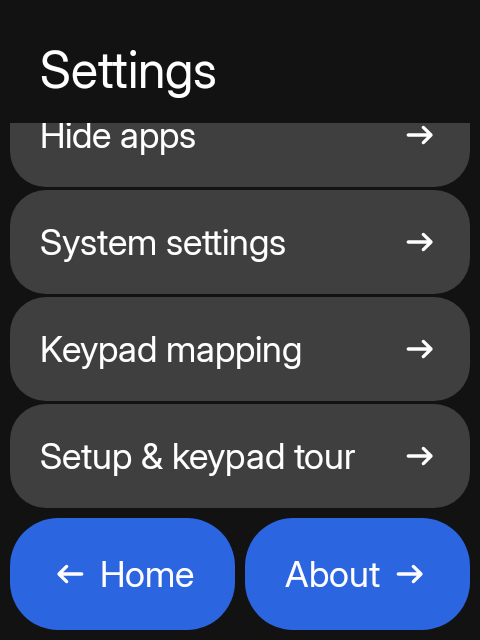
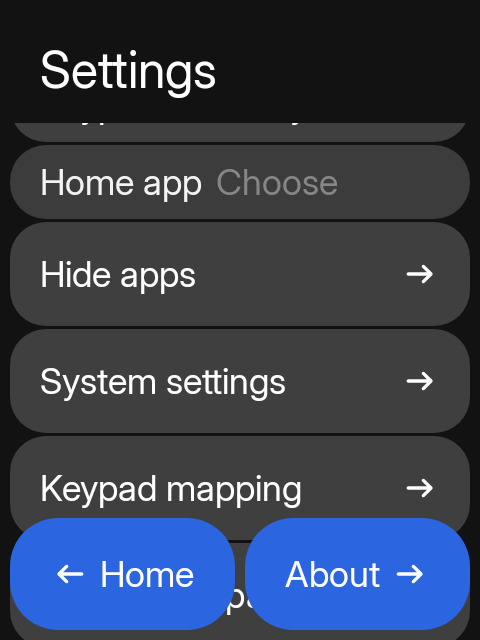
Add a compact layout for the header and action bar
The header reserved 123 px of the 640 px display before any content: 10 dp
canvas padding, 30 dp title inset, 12 dp of Inter's ascent above the cap and a
103 dp header slot. The action bar added another 132.

Settings -> Compact layout installs SidekitSpacing.Compact, which trims the
chrome without touching the type scale: the header title sits 14 dp above its
line box (header 75 instead of 103, so the body starts 28 dp higher) and the
action bar is 100 instead of 112.

The spacing is built in MainActivity from a preference observer, so toggling
the row re-lays out every screen immediately; headerPaddingTop becomes its own
token (default 30) so the standard layout is byte-for-byte unchanged.

(cherry picked from commit 4731755f307c18ad49a7fb4f7f1d2ecc2e892e94)

Changed region(s): [[0.0, 0.1875, 1.0, 1.0]]

diff --git a/app/src/main/java/hrln/interactive/sidekit/apps/settings/SettingsScreen.kt b/app/src/main/java/hrln/interactive/sidekit/apps/settings/SettingsScreen.kt
@@ -71,6 +71,7 @@ internal fun SettingsHome(onHome: () -> Unit, onAbout: () -> Unit, onCaseColour:
     val home = remember(revision) { context.getSystemService(RoleManager::class.java).isRoleHeld(RoleManager.ROLE_HOME) }
     fun open(action: String) { try { context.startActivity(Intent(action)) } catch (_: Exception) { message = "This settings screen is unavailable on this device." } }
     val listLayout = remember(revision) { prefs.listLayout }
+    val compactLayout = remember(revision) { prefs.compactLayout }
     val inputMode = remember(revision) { prefs.inputMode }
     val list = rememberLazyListState()
     SidekitScaffold("Settings", actions = listOf(SideAction.back("home", "Home", onHome), SideAction.forward("about", "About", onAbout))) { padding ->
@@ -78,13 +79,15 @@ internal fun SettingsHome(onHome: () -> Unit, onAbout: () -> Unit, onCaseColour:
             item { SidekitItem("Launcher default", Modifier.height(CompactRowHeight).listFade(list, 0), secondary = if (listLayout) "List" else "Grid", onClick = { prefs.listLayout = !prefs.listLayout; revision++ }) }
             item { SidekitItem("Arrange apps", Modifier.height(CompactRowHeight).listFade(list, 1), secondary = "Home order & dock", onClick = onArrange) }
             item { SidekitItem("Case colour", Modifier.height(CompactRowHeight).listFade(list, 2), secondary = caseColour?.label ?: "Original blue", onClick = onCaseColour) }
+            // Shorter header and action bar on every screen: more room for the body.
+            item { SidekitItem("Compact layout", Modifier.height(CompactRowHeight).listFade(list, 3), secondary = if (compactLayout) "On" else "Off", onClick = { prefs.compactLayout = !prefs.compactLayout; revision++ }) }
             // Detected from the keys pressed; tapping overrides it until another module's key is seen.
             // A custom mapping fixes the module, so then the row opens the mapping instead.
             val custom = keypad?.mapper?.customModule
-            item { SidekitItem("Keypad", Modifier.height(CompactRowHeight).listFade(list, 3), secondary = custom?.let { "${it.label} · custom" } ?: keypad?.module?.label ?: "None", onClick = { if (custom != null) onKeypadMapping() else keypad?.let { it.useModule(KeypadModule.entries[(it.module.ordinal + 1) % KeypadModule.entries.size]) }; revision++ }) }
-            item { SidekitItem("Input mode", Modifier.height(CompactRowHeight).listFade(list, 4), secondary = if (inputMode == T9Mode.Numeric) "Numbers" else "Letters", onClick = { prefs.inputMode = T9Mode.entries[(prefs.inputMode.ordinal + 1) % T9Mode.entries.size]; keypad?.let { prefs.applyInputDefault(it) }; revision++ }) }
-            item { SidekitItem("Keypad Back key", Modifier.height(CompactRowHeight).listFade(list, 5), secondary = if (accessibility) "Enabled" else "Enable", onClick = { open(Settings.ACTION_ACCESSIBILITY_SETTINGS) }) }
-            item { SidekitItem("Home app", Modifier.height(CompactRowHeight).listFade(list, 6), secondary = if (home) "Sidekit" else "Choose", onClick = { open(Settings.ACTION_HOME_SETTINGS) }) }
+            item { SidekitItem("Keypad", Modifier.height(CompactRowHeight).listFade(list, 4), secondary = custom?.let { "${it.label} · custom" } ?: keypad?.module?.label ?: "None", onClick = { if (custom != null) onKeypadMapping() else keypad?.let { it.useModule(KeypadModule.entries[(it.module.ordinal + 1) % KeypadModule.entries.size]) }; revision++ }) }
+            item { SidekitItem("Input mode", Modifier.height(CompactRowHeight).listFade(list, 5), secondary = if (inputMode == T9Mode.Numeric) "Numbers" else "Letters", onClick = { prefs.inputMode = T9Mode.entries[(prefs.inputMode.ordinal + 1) % T9Mode.entries.size]; keypad?.let { prefs.applyInputDefault(it) }; revision++ }) }
+            item { SidekitItem("Keypad Back key", Modifier.height(CompactRowHeight).listFade(list, 6), secondary = if (accessibility) "Enabled" else "Enable", onClick = { open(Settings.ACTION_ACCESSIBILITY_SETTINGS) }) }
+            item { SidekitItem("Home app", Modifier.height(CompactRowHeight).listFade(list, 7), secondary = if (home) "Sidekit" else "Choose", onClick = { open(Settings.ACTION_HOME_SETTINGS) }) }
             item { SidekitItem("Hide apps", showLinkArrow = true, onClick = onHiddenApps) }
             // Device settings live on their own page, so this screen stays Sidekit's own settings.
             item { SidekitItem("System settings", showLinkArrow = true, onClick = onSystem) }

diff --git a/app/src/test/java/hrln/interactive/sidekit/apps/settings/SettingsUiTest.kt b/app/src/test/java/hrln/interactive/sidekit/apps/settings/SettingsUiTest.kt
@@ -72,6 +72,34 @@ class SettingsUiTest {
         compose.onNodeWithText("List").assertIsDisplayed()
     }
 
+    @Test fun `compact layout row saves the choice and raises the body`() {
+        val prefs = SidekitPreferences(ApplicationProvider.getApplicationContext<Context>())
+        prefs.compactLayout = false
+        val compact = androidx.compose.runtime.mutableStateOf(false)
+        compose.setContent {
+            // SidekitTheme directly, not SidekitPreviewFrame: the frame installs its own (standard)
+            // spacing and would override the one under test.
+            hrln.interactive.sidekit.design.theme.SidekitTheme(
+                spacing = if (compact.value) hrln.interactive.sidekit.design.theme.SidekitSpacing.Compact
+                else hrln.interactive.sidekit.design.theme.SidekitSpacing(),
+            ) {
+                hrln.interactive.sidekit.design.canvas.SidekitCanvas { SettingsHome({}, {}) }
+            }
+        }
+        compose.mainClock.advanceTimeBy(1000)
+        val bodyTop = compose.onNodeWithText("Launcher default").getUnclippedBoundsInRoot().top
+        compose.onNodeWithText("Compact layout").performClick()
+        compose.runOnIdle { assertTrue(SidekitPreferences(ApplicationProvider.getApplicationContext()).compactLayout) }
+        compose.onNodeWithText("On").assertIsDisplayed()
+        // The preference listener is what MainActivity follows: flip the state as it would.
+        compose.runOnIdle { compact.value = true }
+        compose.mainClock.advanceTimeBy(1000)
+        compose.onRoot().captureRoboImage("screenshots/settings_compact.png")
+        val compactTop = compose.onNodeWithText("Launcher default").getUnclippedBoundsInRoot().top
+        // Header 103 -> 75, so the body starts 28 dp higher (1 dp == 1 px on this canvas).
+        assertEquals(28f, (bodyTop - compactTop).value, 1f)
+    }
+
     @Test fun `system settings live on their own page`() {
         var opened = 0
         compose.setContent { SidekitPreviewFrame { SettingsHome({}, {}, onSystem = { opened++ }) } }

diff --git a/app/src/test/java/hrln/interactive/sidekit/ui/ScreenshotTest.kt b/app/src/test/java/hrln/interactive/sidekit/ui/ScreenshotTest.kt
@@ -14,6 +14,7 @@ import hrln.interactive.sidekit.apps.sidenotes.SidenotesSampleData
 import hrln.interactive.sidekit.apps.sidenotes.SidenotesUiState
 import hrln.interactive.sidekit.apps.sideticks.SideticksScreen
 import hrln.interactive.sidekit.apps.sideticks.SideticksUiState
+import hrln.interactive.sidekit.design.canvas.SidekitCanvas
 import hrln.interactive.sidekit.launcher.LauncherLayout
 import hrln.interactive.sidekit.launcher.LauncherScreen
 import hrln.interactive.sidekit.launcher.LauncherUiState
@@ -49,6 +50,15 @@ class ScreenshotTest {
     @Test fun launcherGridAtSidephoneAvdDensity() = shoot("launcher_grid_avd_320dpi", launcher(LauncherUiState()))
 
     @Test fun launcherList() = shoot("launcher_list_36-2", launcher(LauncherUiState(layout = LauncherLayout.List)))
+    /** The same frame with Settings → Compact layout on: header 75 instead of 103, bar 100 instead of 112. */
+    @Test fun launcherGridCompact() {
+        compose.setContent {
+            hrln.interactive.sidekit.design.theme.SidekitTheme(
+                spacing = hrln.interactive.sidekit.design.theme.SidekitSpacing.Compact,
+            ) { SidekitCanvas { LauncherScreen(LauncherUiState(), {}, {}) } }
+        }
+        compose.onRoot().captureRoboImage("screenshots/launcher_grid_compact.png")
+    }
     @Test fun sidenotes() = shoot("sidenotes_1-278") { SidenotesListScreen(SidenotesUiState(SidenotesSampleData.notes), {}, {}, {}, {}) }
     @Test fun sidenotesUndo() = shoot("sidenotes_undo") {
         SidenotesListScreen(SidenotesUiState(SidenotesSampleData.notes.drop(1), recentlyDeleted = SidenotesSampleData.notes.first()), {}, {}, {}, {})

diff --git a/app/src/main/java/hrln/interactive/sidekit/MainActivity.kt b/app/src/main/java/hrln/interactive/sidekit/MainActivity.kt
@@ -14,7 +14,9 @@ import androidx.compose.runtime.*
 import hrln.interactive.sidekit.onboarding.OnboardingScreen
 import hrln.interactive.sidekit.apps.settings.SidekitPreferences
 import hrln.interactive.sidekit.apps.settings.rememberCaseColour
+import hrln.interactive.sidekit.apps.settings.rememberCompactLayout
 import hrln.interactive.sidekit.design.theme.SidekitColors
+import hrln.interactive.sidekit.design.theme.SidekitSpacing
 import androidx.compose.runtime.mutableIntStateOf
 import androidx.core.view.WindowCompat
 import androidx.core.view.WindowInsetsCompat
@@ -49,7 +51,10 @@ class MainActivity : ComponentActivity() {
             val prefs = remember { SidekitPreferences(this) }
             var setupComplete by remember { mutableStateOf(prefs.setupComplete) }
             val caseColour = rememberCaseColour(prefs)
-            SidekitTheme(colors = caseColour?.palette() ?: SidekitColors()) {
+            // Compact layout (Settings) trims the header and the action bar on every screen.
+            val compact = rememberCompactLayout(prefs)
+            val spacing = remember(compact) { if (compact) SidekitSpacing.Compact else SidekitSpacing() }
+            SidekitTheme(colors = caseColour?.palette() ?: SidekitColors(), spacing = spacing) {
                 SidekitCanvas(chrome = chrome, keypad = keypad) {
                     if (setupComplete) SidekitNavHost(homeRequests = homeRequests.intValue)
                     else OnboardingScreen(onFinish = { setupComplete = true })

diff --git a/sidekit/src/main/java/hrln/interactive/sidekit/design/theme/SidekitDimens.kt b/sidekit/src/main/java/hrln/interactive/sidekit/design/theme/SidekitDimens.kt
@@ -24,12 +24,28 @@ data class SidekitSpacing(
     // Measured from components
     val itemPadding: Dp = 30.dp,
     val itemContentGap: Dp = 14.dp,
+    /** Space above the header title. The Figma frame uses [itemPadding]; compact mode trims it. */
+    val headerPaddingTop: Dp = 30.dp,
     val headerHeight: Dp = 103.dp,
     val itemHeight: Dp = 104.dp,
     val actionBarHeight: Dp = 112.dp,
     val iconSize: Dp = 40.dp,
     val tileIconSize: Dp = 44.dp,
-)
+) {
+    companion object {
+        /**
+         * The measured Figma sizes, except the top and bottom chrome: the header title sits 14
+         * above its line box (a 75 tall header, 28 less than the mock) and the action bar is 12
+         * shorter. Slightly tighter insets buy body space on the 480 x 640 display without
+         * touching the type scale. Chosen from Settings → Compact layout.
+         */
+        val Compact: SidekitSpacing = SidekitSpacing(
+            headerPaddingTop = 14.dp,
+            headerHeight = 75.dp,
+            actionBarHeight = 100.dp,
+        )
+    }
+}
 
 @Immutable
 data class SidekitShapes(

diff --git a/app/src/main/java/hrln/interactive/sidekit/apps/settings/SettingsViewModel.kt b/app/src/main/java/hrln/interactive/sidekit/apps/settings/SettingsViewModel.kt
@@ -43,6 +43,18 @@ class SidekitPreferences(context: Context) {
     var listLayout: Boolean
         get() = prefs.getBoolean("list_layout", false)
         set(value) { prefs.edit().putBoolean("list_layout", value).apply() }
+    /** Shorter header and action bar; see `SidekitSpacing.Compact` in the design module. */
+    var compactLayout: Boolean
+        get() = prefs.getBoolean("compact_layout", false)
+        set(value) { prefs.edit().putBoolean("compact_layout", value).apply() }
+
+    fun observeCompactLayout(onChange: () -> Unit): () -> Unit {
+        val listener = SharedPreferences.OnSharedPreferenceChangeListener { _, key ->
+            if (key == "compact_layout" || key == null) onChange()
+        }
+        prefs.registerOnSharedPreferenceChangeListener(listener)
+        return { prefs.unregisterOnSharedPreferenceChangeListener(listener) }
+    }
     var inputMode: T9Mode
         get() = T9Mode.entries.firstOrNull { it.name == prefs.getString("input_mode", null) } ?: T9Mode.MultiTap
         set(value) { prefs.edit().putString("input_mode", value.name).apply() }

diff --git a/app/src/main/java/hrln/interactive/sidekit/apps/settings/CompactLayout.kt b/app/src/main/java/hrln/interactive/sidekit/apps/settings/CompactLayout.kt
@@ -1,0 +1,25 @@
+package hrln.interactive.sidekit.apps.settings
+
+import androidx.compose.runtime.Composable
+import androidx.compose.runtime.DisposableEffect
+import androidx.compose.runtime.getValue
+import androidx.compose.runtime.mutableStateOf
+import androidx.compose.runtime.remember
+import androidx.compose.runtime.setValue
+
+/**
+ * The compact-layout choice, read where the theme is built (MainActivity) so toggling it in
+ * Settings re-lays out the whole app on the next frame. The listener mirrors
+ * [rememberCaseColour]: the preference is written from another screen, so it has to be observed
+ * rather than read once.
+ */
+@Composable
+internal fun rememberCompactLayout(prefs: SidekitPreferences): Boolean {
+    var compact by remember(prefs) { mutableStateOf(prefs.compactLayout) }
+    DisposableEffect(prefs) {
+        val stop = prefs.observeCompactLayout { compact = prefs.compactLayout }
+        compact = prefs.compactLayout
+        onDispose { stop() }
+    }
+    return compact
+}

diff --git a/app/src/main/java/hrln/interactive/sidekit/apps/music/MusicScreens.kt b/app/src/main/java/hrln/interactive/sidekit/apps/music/MusicScreens.kt
@@ -326,7 +326,7 @@ private fun backToMusic(onBack: () -> Unit) = listOf(SideAction.back("back", "Mu
 @Composable
 private fun SearchHeader(query: String, onQueryChange: (String) -> Unit, focusRequester: FocusRequester) {
     val spacing = SidekitTheme.spacing
-    Box(Modifier.fillMaxWidth().height(spacing.headerHeight).padding(horizontal = spacing.itemPadding).padding(top = spacing.itemPadding)) {
+    Box(Modifier.fillMaxWidth().height(spacing.headerHeight).padding(horizontal = spacing.itemPadding).padding(top = spacing.headerPaddingTop)) {
         SidekitTextField(query, onQueryChange, Modifier.fillMaxWidth().semantics { contentDescription = "Search music" }, textStyle = SidekitTheme.typography.title, placeholder = "Search here", focusRequester = focusRequester, focusOnKeypad = true, singleLine = true, autoFocus = true)
     }
 }

diff --git a/sidekit/src/main/java/hrln/interactive/sidekit/design/components/Scaffold.kt b/sidekit/src/main/java/hrln/interactive/sidekit/design/components/Scaffold.kt
@@ -30,7 +30,8 @@ import hrln.interactive.sidekit.design.theme.SidekitTheme
 
 /**
  * Header frame (62:898): 460 x 103, title inset 30/30. Drawn by the shared title host; screens
- * use it directly only for a custom header.
+ * use it directly only for a custom header. The spacing token `headerPaddingTop` shortens it
+ * (with `headerHeight`) in compact mode.
  */
 @Composable
 fun SidekitHeader(
@@ -43,7 +44,7 @@ fun SidekitHeader(
             .fillMaxWidth()
             .height(SidekitTheme.spacing.headerHeight)
             .padding(horizontal = SidekitTheme.spacing.itemPadding)
-            .padding(top = SidekitTheme.spacing.itemPadding),
+            .padding(top = SidekitTheme.spacing.headerPaddingTop),
     ) {
         SidekitText(
             text = title,

diff --git a/app/src/main/java/hrln/interactive/sidekit/launcher/LauncherScreen.kt b/app/src/main/java/hrln/interactive/sidekit/launcher/LauncherScreen.kt
@@ -184,7 +184,7 @@ fun LauncherScreen(
             } else false
         },
         header = {
-            Box(Modifier.fillMaxWidth().height(SidekitTheme.spacing.headerHeight).padding(horizontal = SidekitTheme.spacing.itemPadding).padding(top = SidekitTheme.spacing.itemPadding)) {
+            Box(Modifier.fillMaxWidth().height(SidekitTheme.spacing.headerHeight).padding(horizontal = SidekitTheme.spacing.itemPadding).padding(top = SidekitTheme.spacing.headerPaddingTop)) {
                 SidekitTextField(
                     state = query,
                     focusRequester = searchFocus,
